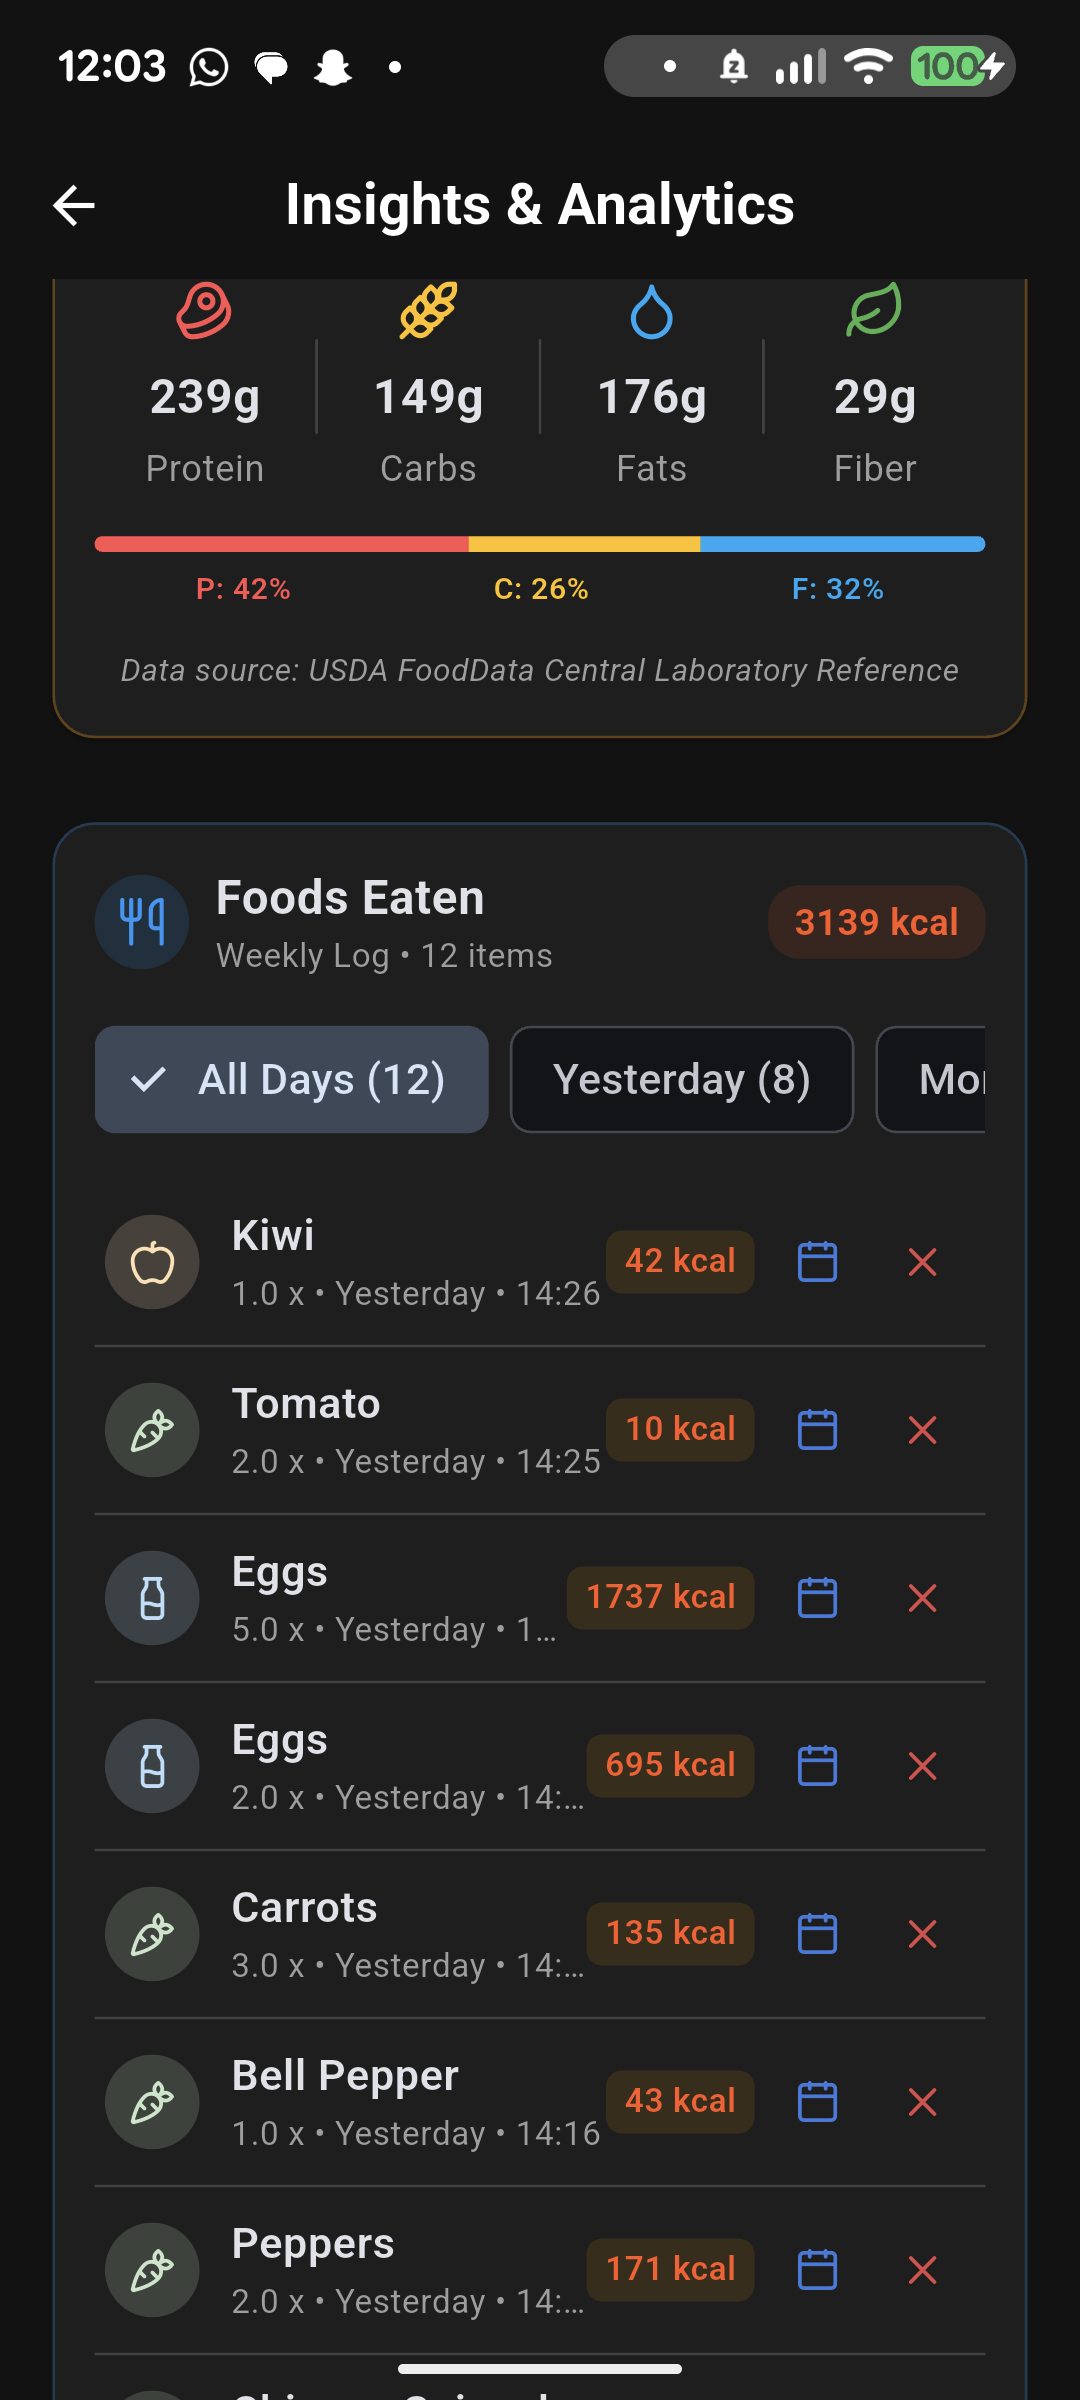
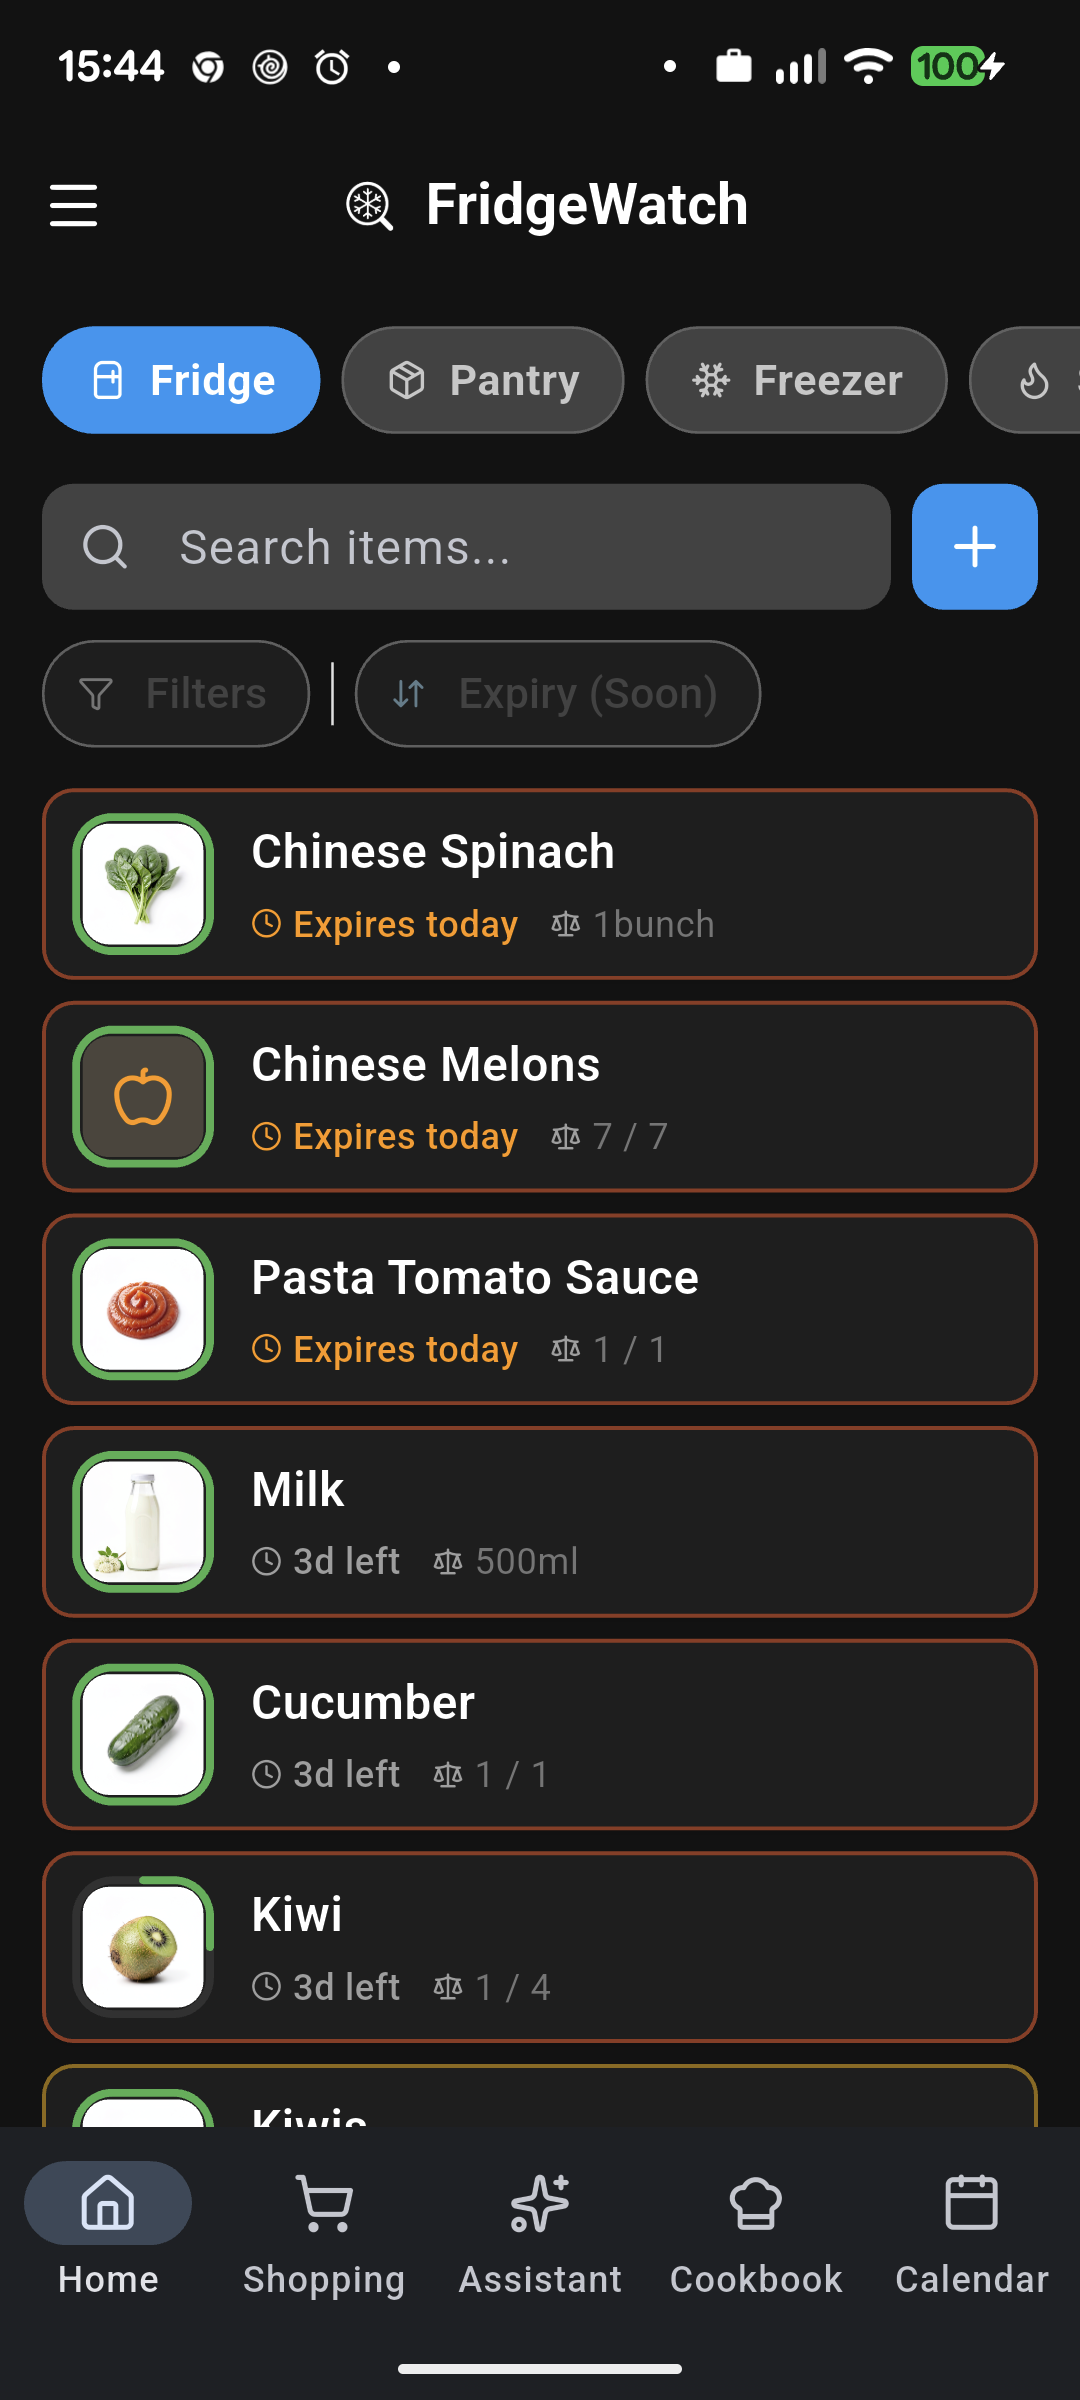
fix(docs): update inventory home screenshot to actual inventory screen and remove community leaderboard

diff --git a/README.md b/README.md
@@ -112,24 +112,13 @@ Tap any food card to view full nutrition data, adjust shelf life, change storage
 
 ---
 
-### 5. Gamification, Community & Zero-Waste Streaks
-Stay motivated to cut household food waste through communal challenges, waste-reduction streaks, and friend leaderboards.
+### 5. Zero-Waste Challenges & Household Milestones
+Stay motivated to cut household food waste through goal-oriented challenges, waste-reduction streaks, and milestone achievements.
 
 <div align="center">
-  <table>
-    <tr>
-      <td align="center" width="50%">
-        <img src="screenshots/11_zero_waste_challenges.png" alt="Zero-Waste Challenges" width="280" /><br />
-        <b>Zero-Waste Challenges</b><br />
-        <i>Track waste reduction milestones, streak multipliers, and achievements</i>
-      </td>
-      <td align="center" width="50%">
-        <img src="screenshots/12_social_leaderboard.png" alt="Social Leaderboard" width="280" /><br />
-        <b>Community Leaderboard</b><br />
-        <i>Connect with friends, compare waste savings, and share accomplishments</i>
-      </td>
-    </tr>
-  </table>
+  <img src="screenshots/11_zero_waste_challenges.png" alt="Zero-Waste Challenges" width="300" /><br />
+  <b>Zero-Waste Challenges & Streaks</b><br />
+  <i>Track waste reduction goals, active streaks, and food-saving achievements</i>
 </div>
 
 ---
@@ -167,7 +156,7 @@ Designed for speed with local short-circuit intent routing (0 LLM tokens, <50ms 
 * **AI & Vision Pipeline**: Multi-modal vision analysis using **Google Gemini Flash** with strict JSON schema parsing, preset enrichment, and prompt compression (~65% token reduction).
 * **Local-First Routing Engine**: Tier 0 pre-LLM regex short-circuiting routing frequent pantry queries locally in 0ms and 0 tokens.
 * **Nutrition Database**: Offline registry of **480+ USDA FoodData Central** items with dynamic macronutrient scaling.
-* **Backend & Auth**: **Supabase (PostgreSQL)** with Row-Level Security (RLS) for cloud synchronization, multi-device backup, and social features.
+* **Backend & Auth**: **Supabase (PostgreSQL)** with Row-Level Security (RLS) for cloud synchronization, multi-device backup, and inventory data storage.
 * **Offline Cache**: Local SQLite / Shared Preferences cache ensuring 100% offline functionality.
 
 ---
